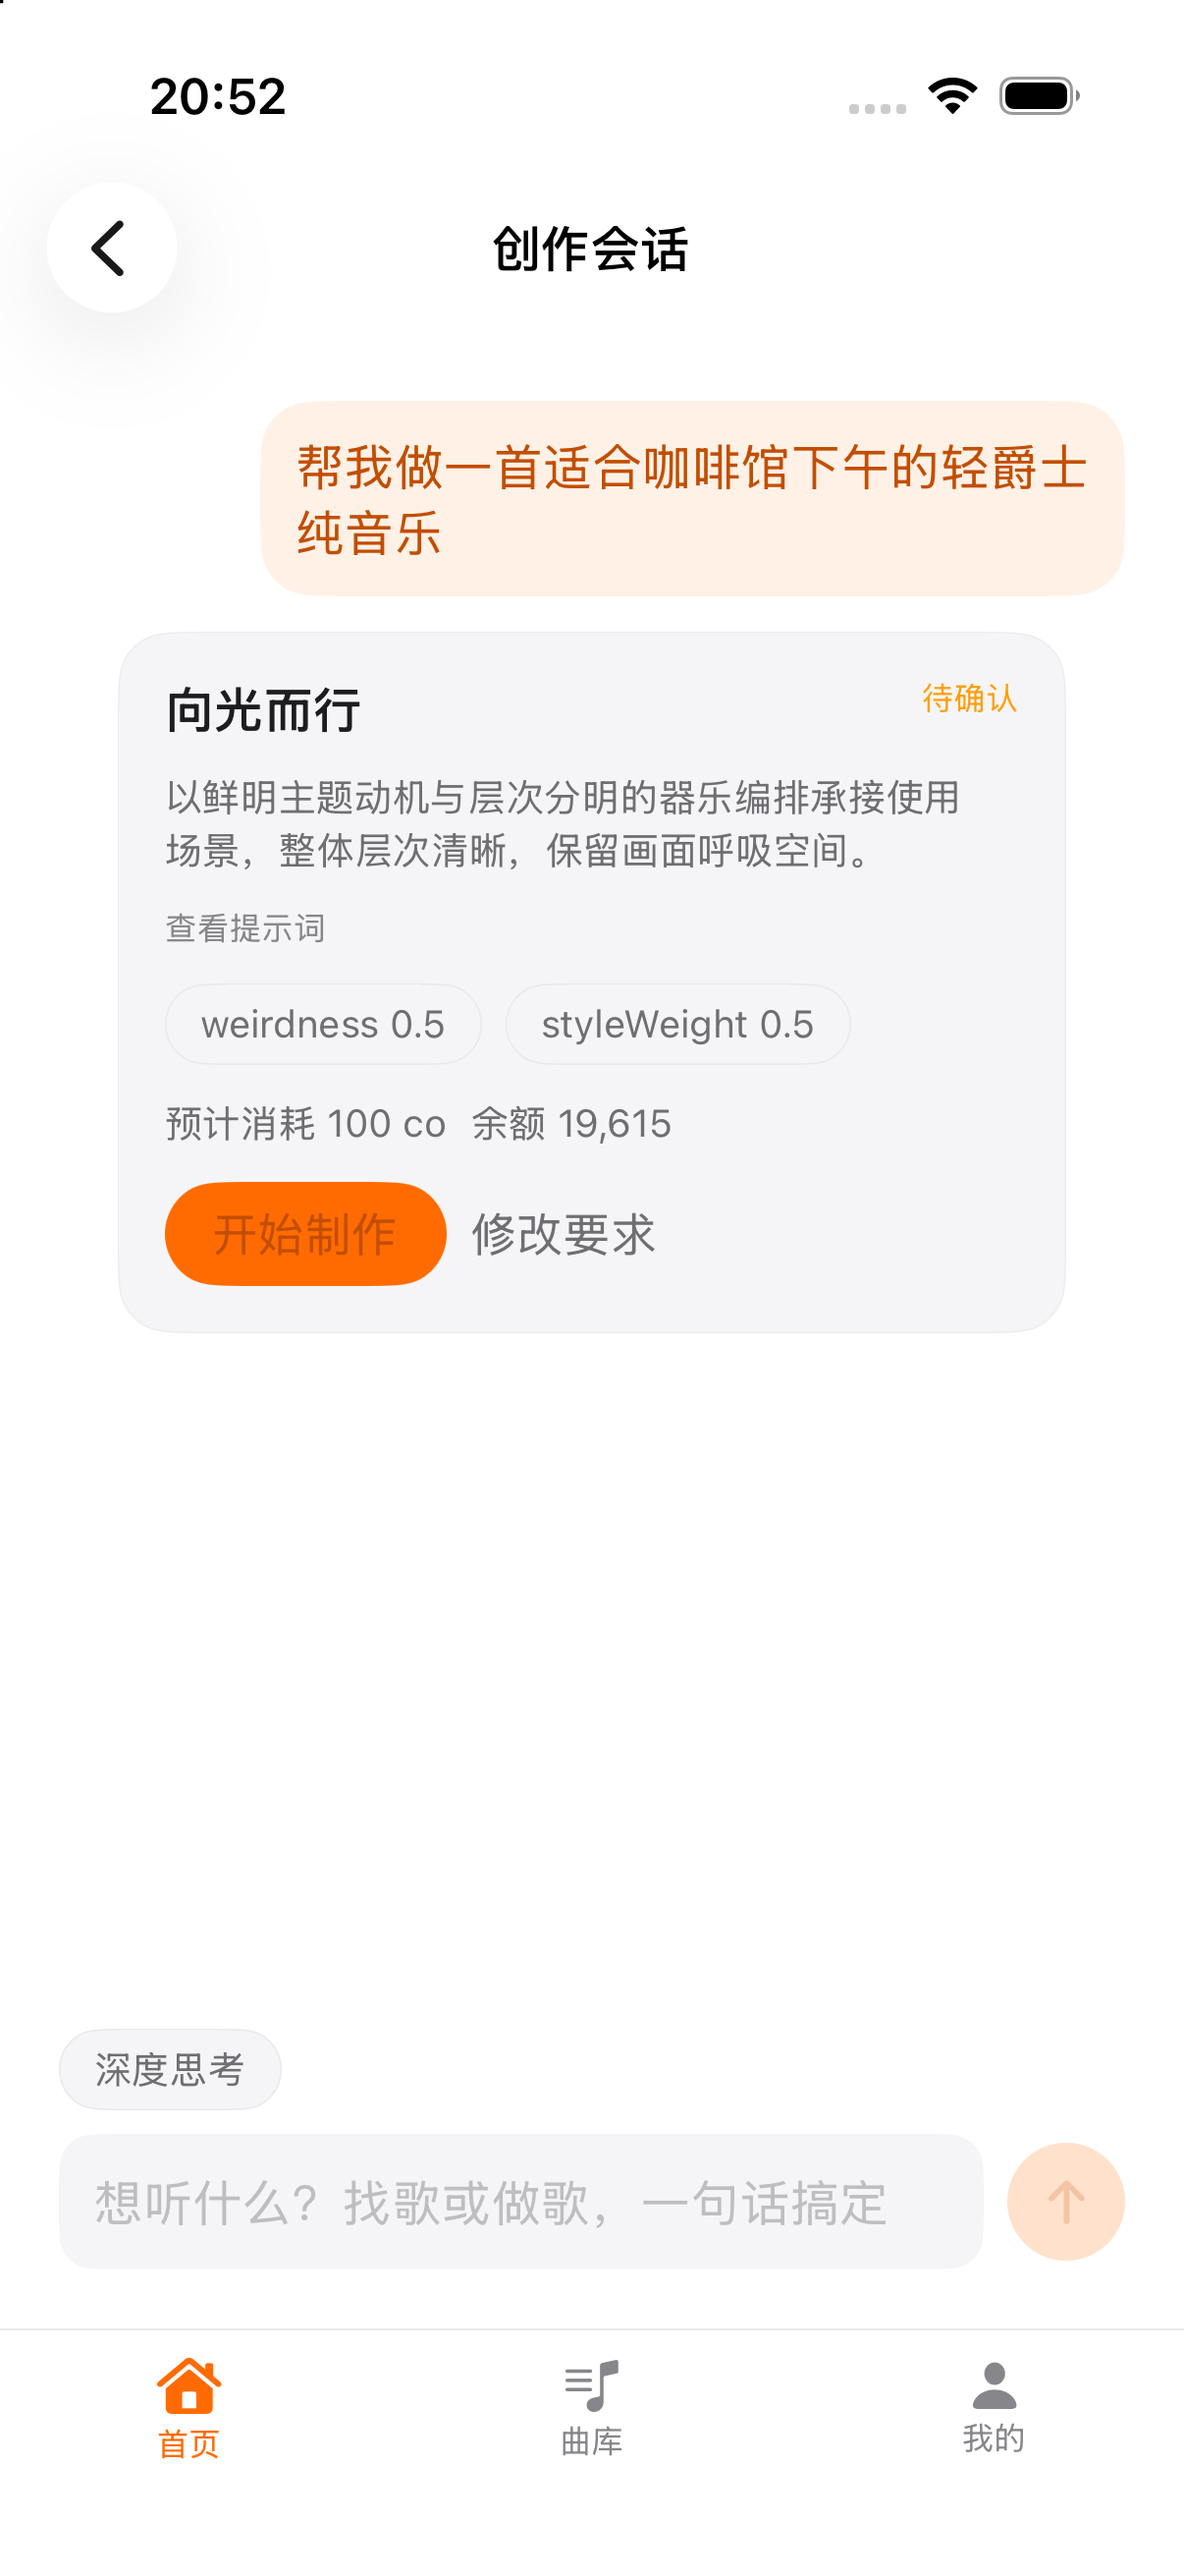
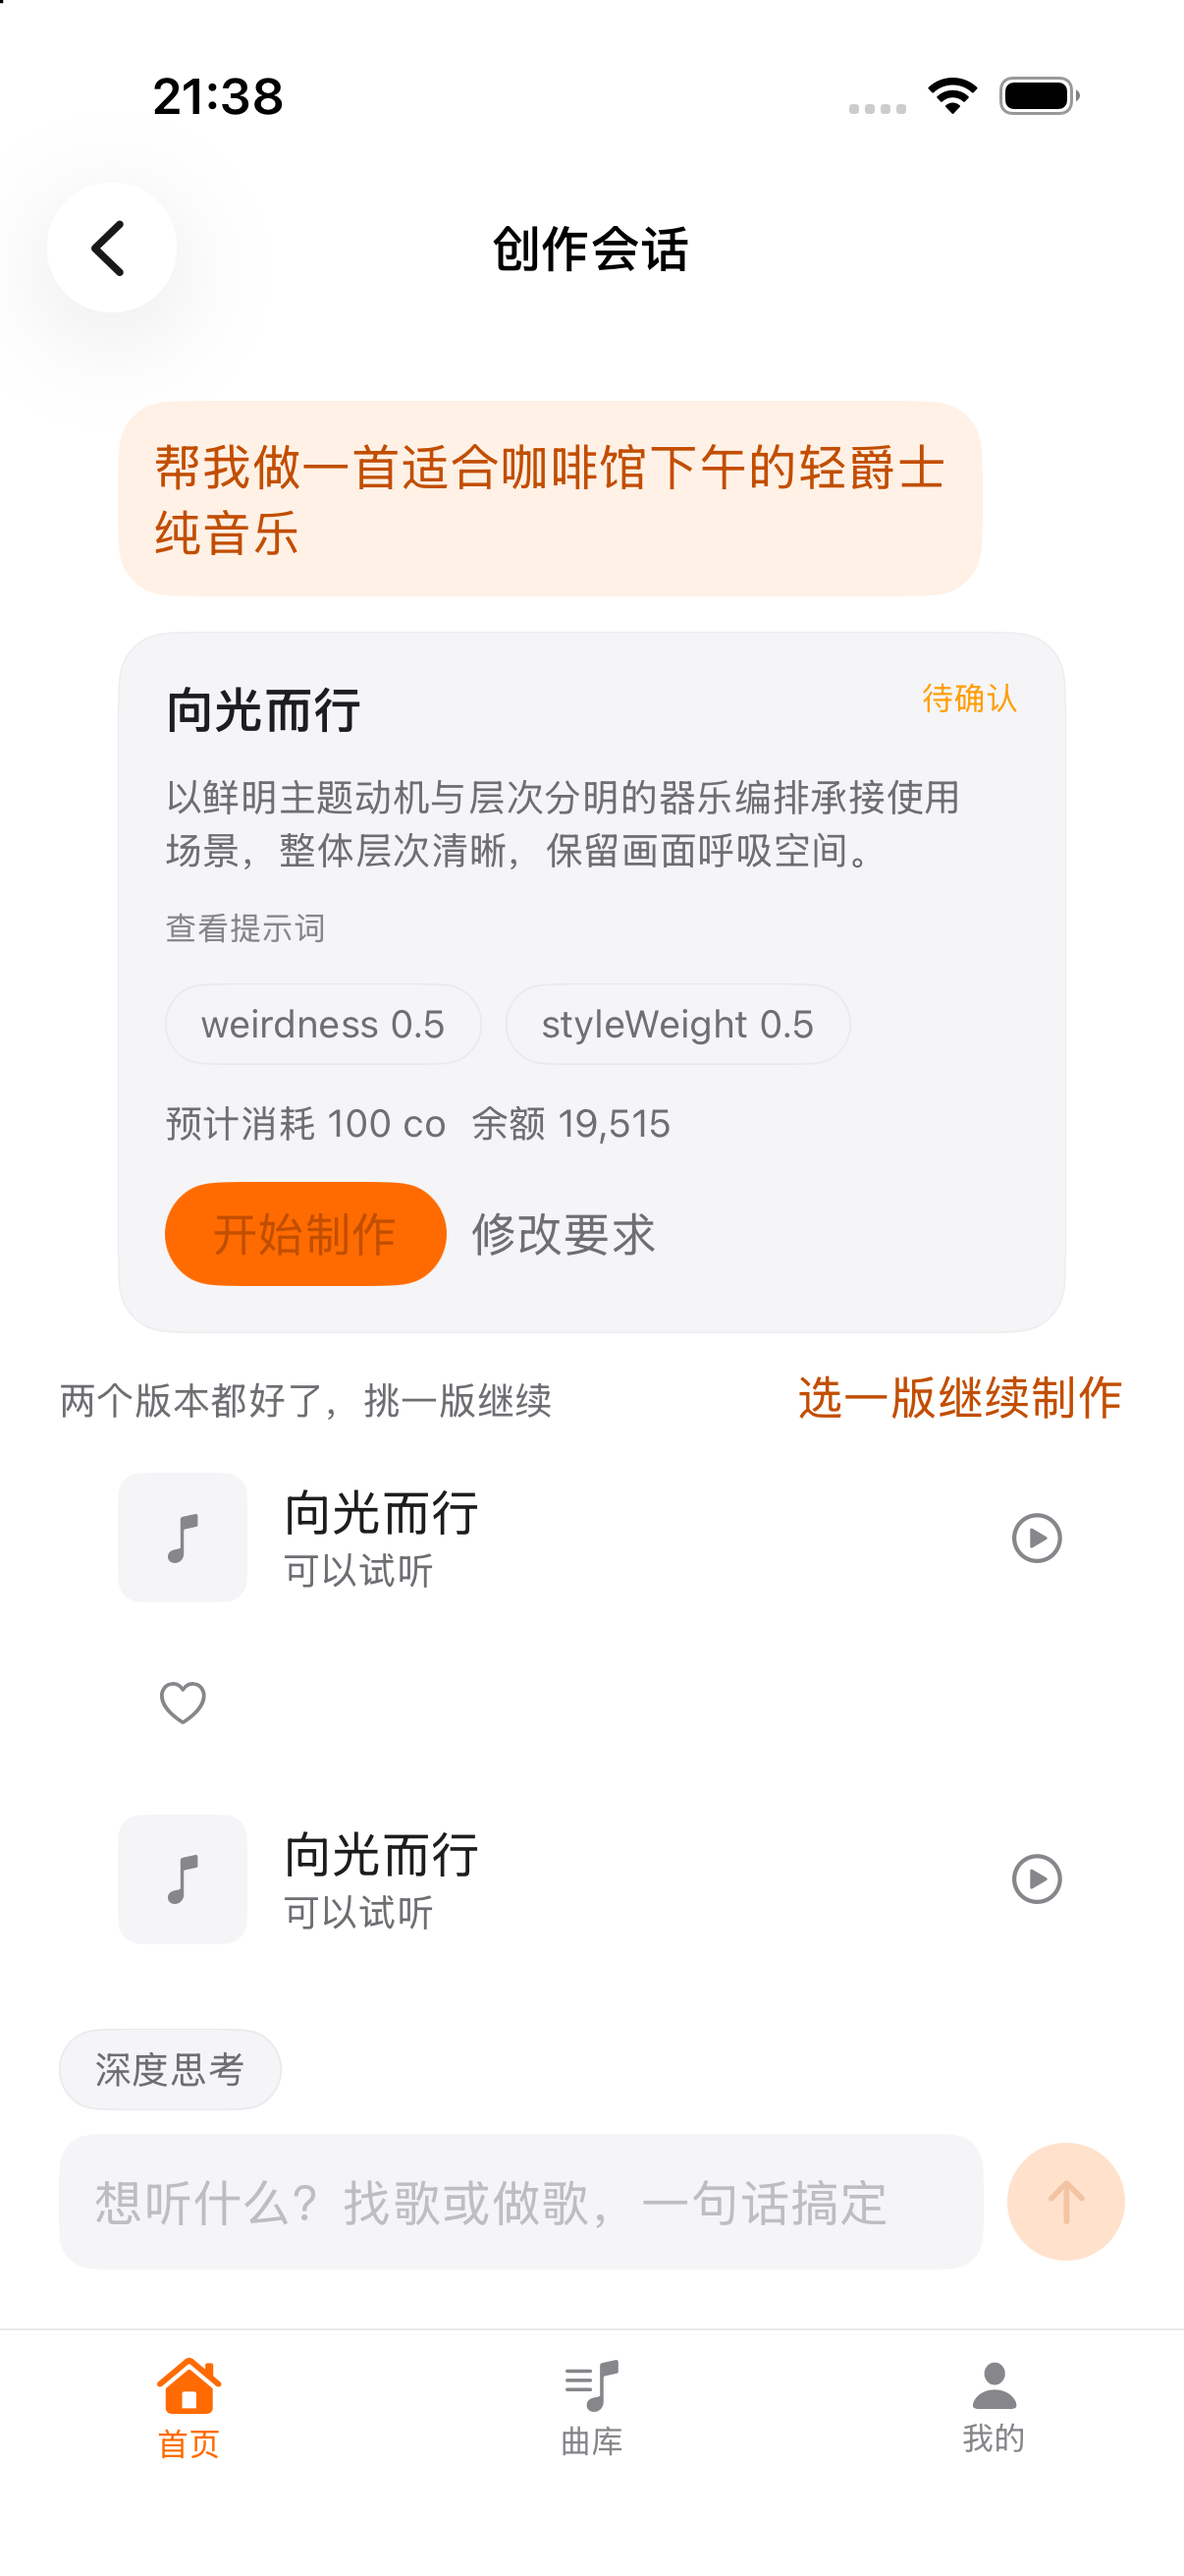
feat(m3): 09 用户气泡按 spec 取"最大宽 78%"，AX 档放到整行
原先是 `Spacer(minLength: 40)` —— 那只是"至少留 40pt"，长句照样铺满整行，不是 09 §3-B/§Dynamic Type
要的 78%。改成外层容器走 `containerRelativeFrame(count:100, span: axLayout ? 100 : 78)` +
内层 Text 固有宽度右对齐 ⇒ 是**最大宽**而不是固定宽（短消息不会被撑成 78%）。
两张证据都肉眼核过：默认档气泡左缘内缩约 22%，AX3 档整行铺开、计划卡同步换行。

diff --git a/Packages/CovaFeature/Sources/CovaFeature/AISessionDetailView.swift b/Packages/CovaFeature/Sources/CovaFeature/AISessionDetailView.swift
@@ -31,6 +31,8 @@ public struct AISessionDetailView: View {
     /// 计划启动的幂等键账本（D8）：同一 `(会话, 计划卡, revision)` 的**重试复用同一个键**，
     /// 这样"提交成功但响应没读出来"的情形不会被用户的第二次点击变成第二次扣费。
     @State private var startTokens = PlanStartTokenLedger()
+    /// 09 §Dynamic Type：AX 档下气泡放到整行、候选卡组纵向堆叠。
+    @Environment(\.covaAXLayout) private var axLayout
     @State private var creditsBalance: Int?
     @State private var runLabel: String?
     @State private var degradeLabel: String?
@@ -101,8 +103,11 @@ public struct AISessionDetailView: View {
     private func row(_ line: TranscriptLine) -> some View {
         switch line.kind {
         case .user(let text):
+            // 09 §3-B / §Dynamic Type：用户气泡**最大宽 78%**，AX 档放到整行（屏宽 − 2×页边距）。
+            // 外层容器取容器的 78%/100%，内层 Text 仍是固有宽度 + 右对齐 ⇒ 是"最大宽"而不是"固定宽"。
+            // 原先写的是 `Spacer(minLength: 40)`：那只是"至少留 40pt"，长句照样铺满整行，不是 78%。
             HStack {
-                Spacer(minLength: 40)
+                Spacer(minLength: 0)
                 Text(text)
                     .font(CovaType.body).foregroundStyle(CovaColor.accentText)
                     .padding(CovaSpace.md)
@@ -111,6 +116,9 @@ public struct AISessionDetailView: View {
                             .fill(CovaColor.accentSoft)
                     )
             }
+            .containerRelativeFrame(
+                .horizontal, count: 100, span: axLayout ? 100 : 78, spacing: 0, alignment: .trailing
+            )
         case .agentText(let text):
             Text(text)
                 .font(CovaType.body).foregroundStyle(CovaColor.fg)
